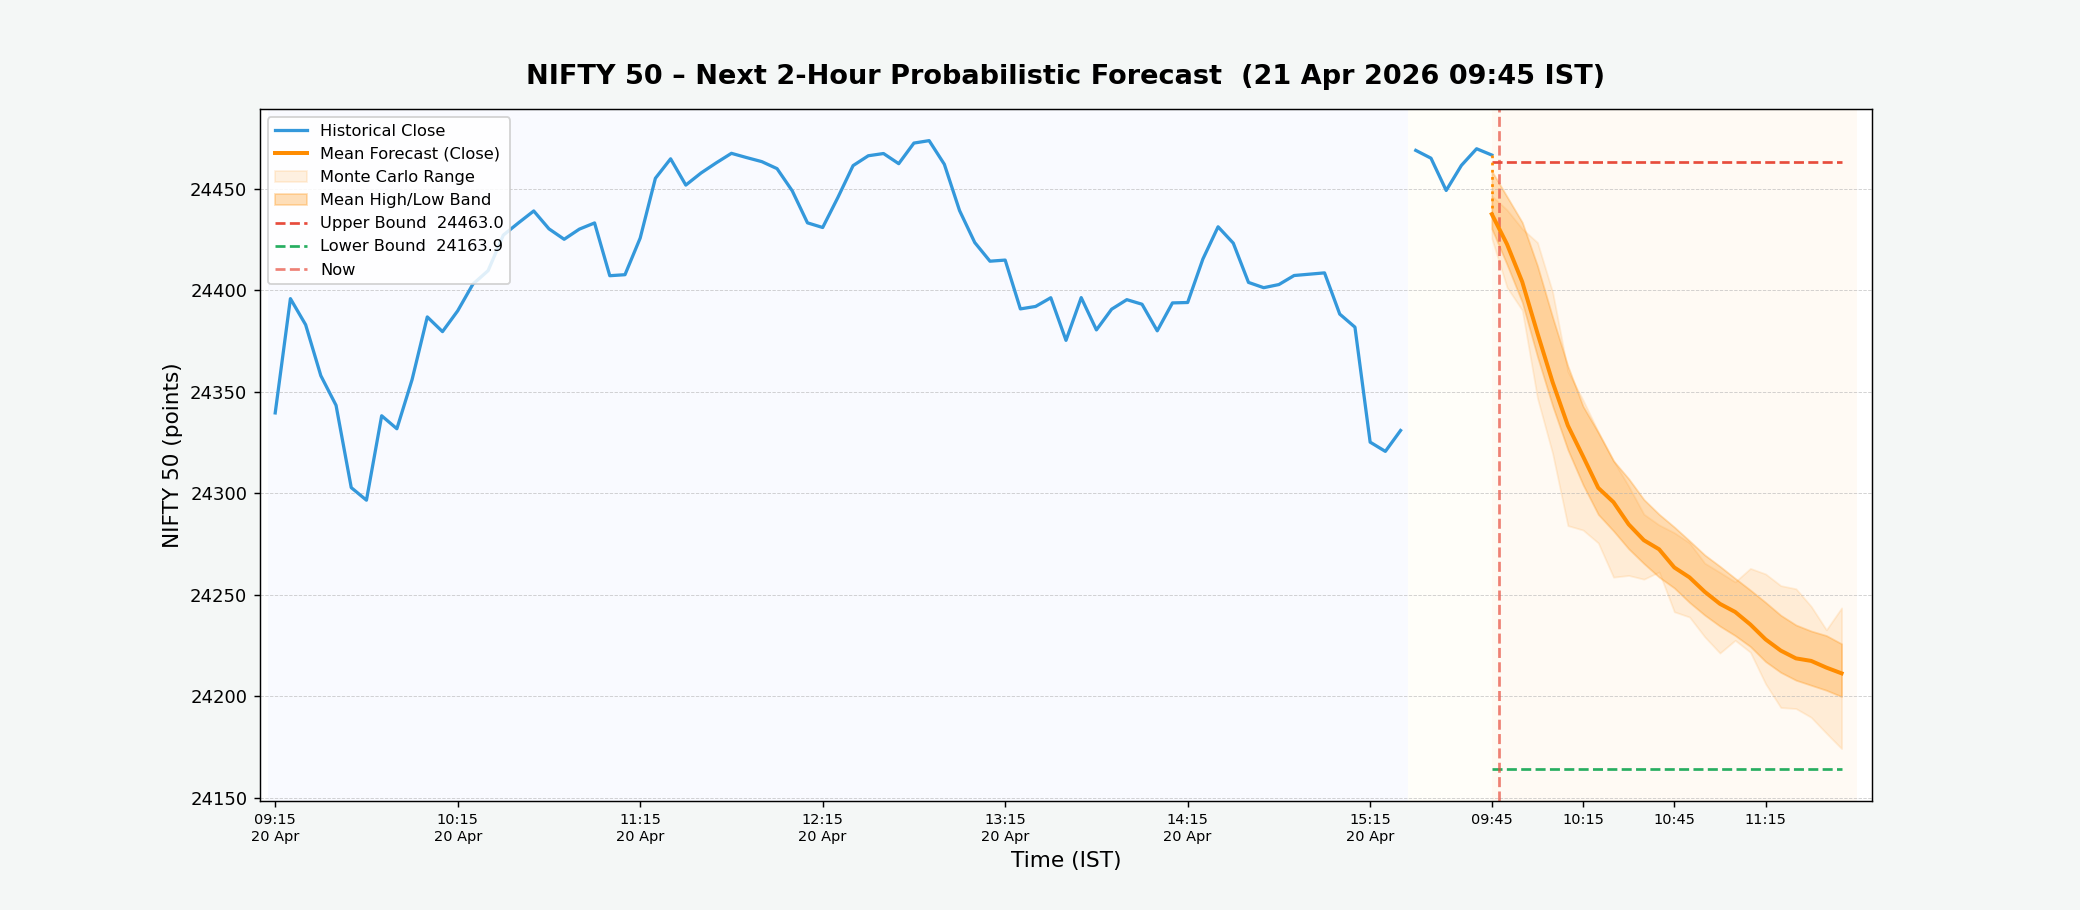
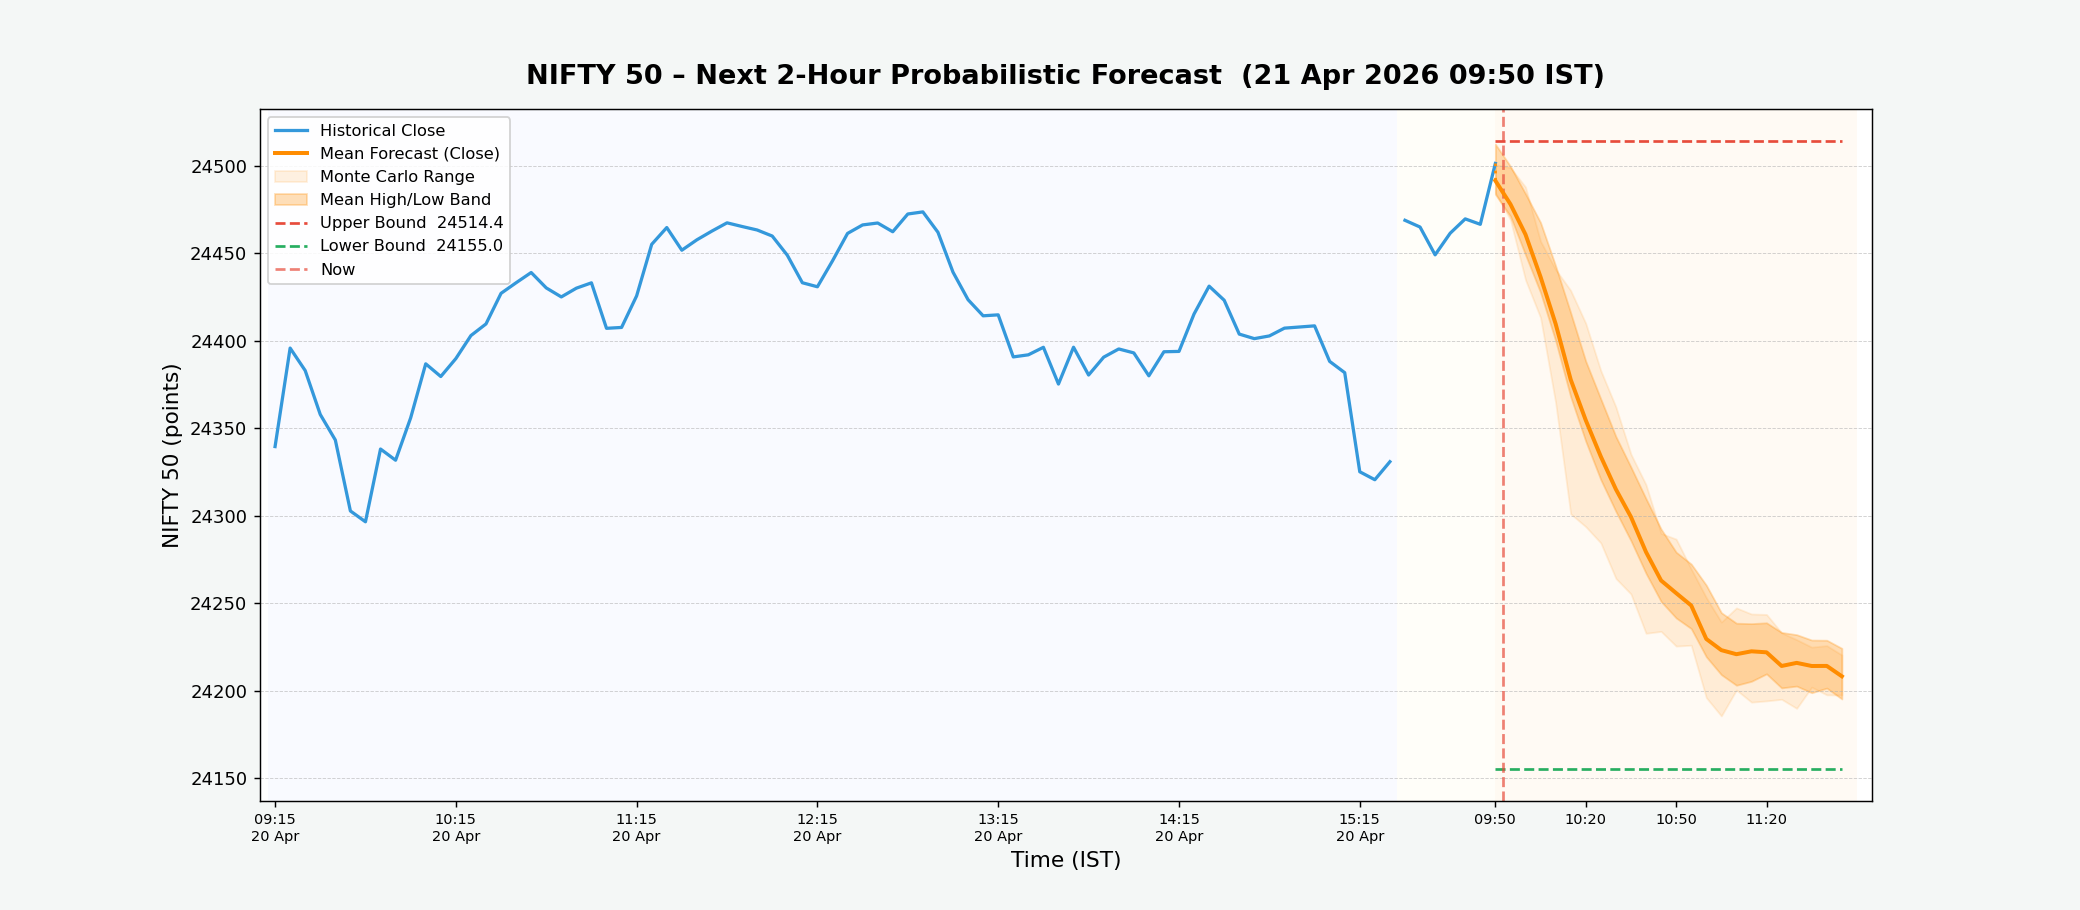
NIFTY forecast update – 2026-04-21 09:50 IST

diff --git a/index.html b/index.html
@@ -24,29 +24,29 @@
 
         <!-- Timestamp bar -->
         <div class="timestamp-bar">
-            <span>Last updated (IST):&nbsp;<strong id="update-time">2026-04-21 09:45:04</strong></span>
+            <span>Last updated (IST):&nbsp;<strong id="update-time">2026-04-21 09:50:04</strong></span>
         </div>
 
         <!-- Metric cards -->
         <div class="metrics-container">
             <div class="metric-card bullish">
                 <div class="metric-label">Bullish Bar Ratio</div>
-                <div class="metric-value" id="upside-prob">13.3%</div>
+                <div class="metric-value" id="upside-prob">16.2%</div>
                 <div class="metric-sub">Next 2h · close &gt; open %</div>
             </div>
             <div class="metric-card upper">
                 <div class="metric-label">Upper Bound</div>
-                <div class="metric-value" id="upper-bound">24463.0</div>
+                <div class="metric-value" id="upper-bound">24514.4</div>
                 <div class="metric-sub">Max predicted high</div>
             </div>
             <div class="metric-card lower">
                 <div class="metric-label">Lower Bound</div>
-                <div class="metric-value" id="lower-bound">24163.9</div>
+                <div class="metric-value" id="lower-bound">24155.0</div>
                 <div class="metric-sub">Min predicted low</div>
             </div>
             <div class="metric-card range">
                 <div class="metric-label">Predicted Range</div>
-                <div class="metric-value" id="pred-range">299.1 pts</div>
+                <div class="metric-value" id="pred-range">359.4 pts</div>
                 <div class="metric-sub">Upper − Lower spread</div>
             </div>
         </div>
